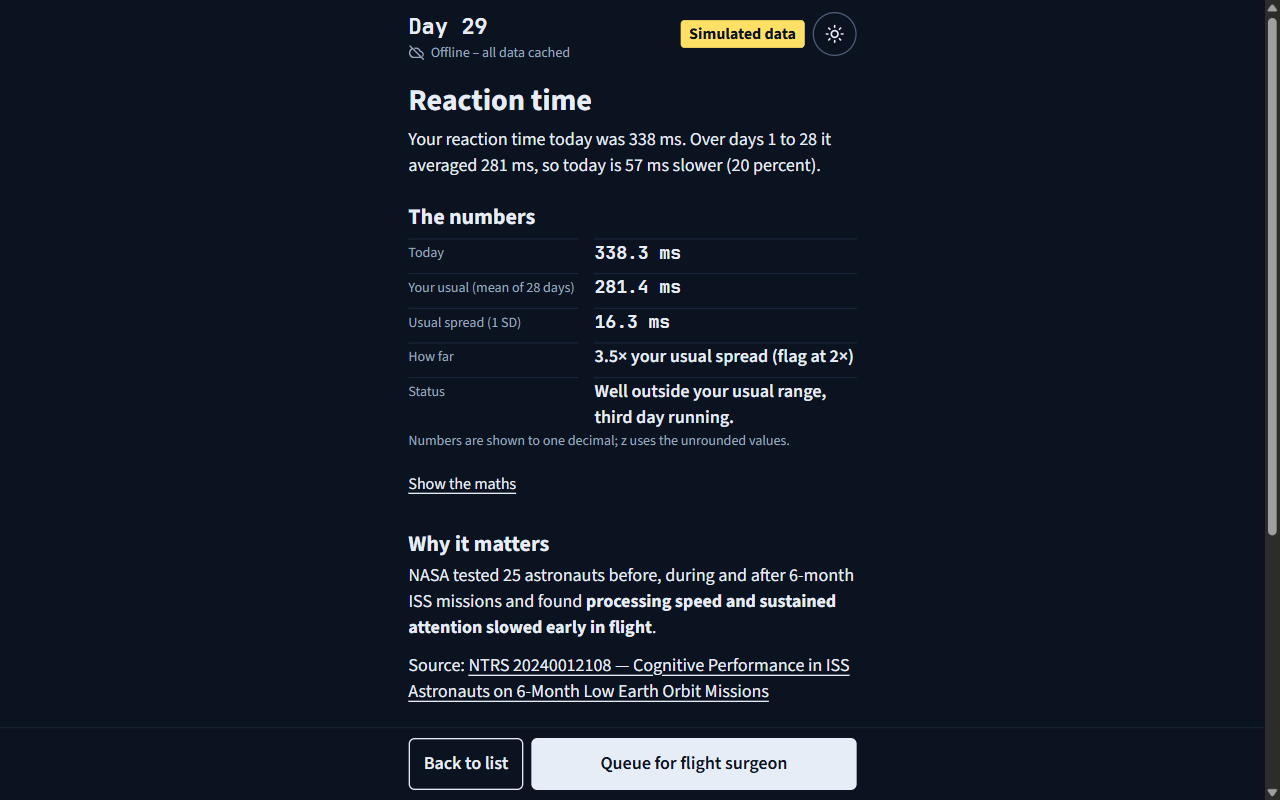
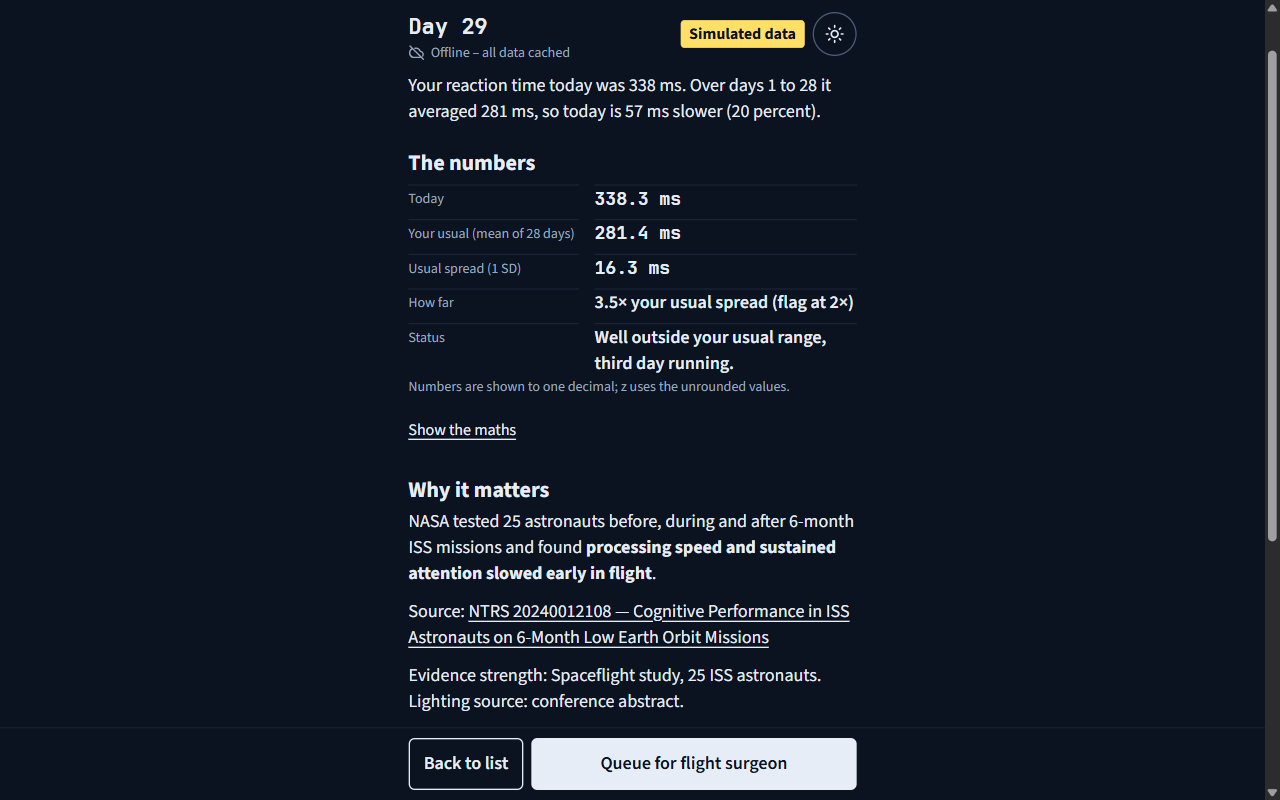
A2: evidence strength line on every evidence card and on the solar alert

Changed region(s): [[0.3125, 0.0938, 0.6562, 0.5625], [0.3125, 0.5938, 0.6562, 0.9062], [0.9688, 0.0312, 1.0, 0.0625]]

diff --git a/web/index.html b/web/index.html
@@ -464,6 +464,7 @@ fieldset { border: 0; padding: 0; margin: 28px 0 0; min-width: 0; }
   <h2>Why it matters</h2>
   <p id="ev-words"></p>
   <p id="ev-study" class="cite"></p>
+  <p id="ev-strength" class="cite"></p>
   <div class="step-card">
     <h2>Guidance</h2>
     <p id="ev-step"></p>
@@ -514,6 +515,7 @@ fieldset { border: 0; padding: 0; margin: 28px 0 0; min-width: 0; }
     <p id="b1-step"></p>
     <div id="b1-sources"></div>
     <p id="b1-source" class="meta cite"></p>
+    <p id="b1-strength" class="meta cite"></p>
   </div>
 </section>
 
@@ -523,9 +525,9 @@ fieldset { border: 0; padding: 0; margin: 28px 0 0; min-width: 0; }
 <script src="trend.js?v=076b8d7565"></script>
 <script src="projection.js?v=1eb08e8dd9"></script>
 <script src="maths.js?v=a15139ff07"></script>
-<script src="spe.js?v=cdf73caa73"></script>
+<script src="spe.js?v=a7f289eecc"></script>
 <script src="reaction.js?v=0c373ca889"></script>
 <script src="store.js?v=986788a7d2"></script>
-<script src="app.js?v=636926be8c"></script>
+<script src="app.js?v=41874e5985"></script>
 </body>
 </html>

diff --git a/web/app.js b/web/app.js
@@ -460,6 +460,7 @@ function renderAlert(c) {
   put($("b1-step"), c.step);
   $("b1-sources").replaceChildren(...[...c.sources, ...c.events].map((line) => make("p", line, "meta cite")));
   put($("b1-source"), c.source);
+  put($("b1-strength"), c.strength);
 }
 
 function showAlert(c, back) {
@@ -620,6 +621,8 @@ function renderEvidence(r) {
   else put($("ev-words"), "No matching study cached.");
   $("ev-study").hidden = !study;
   if (study) putSources($("ev-study"), [{ label: `${PREFIX[e.source_type]}${e.source_id} — ${e.title}`, url: e.url }]);
+  $("ev-strength").hidden = !e.strength;
+  if (e.strength) put($("ev-strength"), `Evidence strength: ${e.strength}`);
 
   const step = e.countermeasure && e.countermeasure_source;
   put($("ev-step"), step ? e.countermeasure : "No countermeasure step cached for this rule yet.");

diff --git a/web/spe.js b/web/spe.js
@@ -17,6 +17,7 @@
       `Source for the alert: ${e.alert_source}`,
       `Source for the S1 level: ${e.threshold_source}`,
     ],
+    strength: `Evidence strength: ${e.strength}`,
   });
 
   // null unless the rule fired on the latest cached reading.
@@ -56,7 +57,7 @@
   }
 
   // Every line of a card, in screen order (for the wording test).
-  const lines = (c) => [c.chip, "Shelter now", c.reading, c.level, c.when, c.step, ...c.sources, ...c.events, c.source];
+  const lines = (c) => [c.chip, "Shelter now", c.reading, c.level, c.when, c.step, ...c.sources, ...c.events, c.source, c.strength];
 
   const api = { live, replay, lines };
   if (typeof module === "object" && module.exports) module.exports = api;

diff --git a/tests/test_evidence.py b/tests/test_evidence.py
@@ -1,4 +1,6 @@
 import json
+import re
+from pathlib import Path
 
 import pytest
 
@@ -25,7 +27,8 @@ def test_url_without_source_id_is_rejected(tmp_path):
 
 def test_ntrs_entry_renders_with_ntrs_prefix(tmp_path):
     # Placeholder id, title and URL for the test only; not a real citation.
-    entry = {"source_type": "ntrs", "source_id": "TEST-ID", "title": "Test title", "url": "https://ntrs.nasa.gov/test"}
+    entry = {"source_type": "ntrs", "source_id": "TEST-ID", "title": "Test title", "url": "https://ntrs.nasa.gov/test",
+             "strength": "Test strength."}
     evidence = load_evidence_map(write(tmp_path, {"hrv_below_personal_baseline": entry}))
     assert card_for(RESULT, evidence)["study"] == "NTRS TEST-ID, Test title, https://ntrs.nasa.gov/test"
 
@@ -54,3 +57,40 @@ def test_every_rule_has_a_countermeasure_step():
         assert entry.get("countermeasure", "").strip(), f"{rule}: no countermeasure"
         assert entry.get("countermeasure_source", "").strip(), f"{rule}: no countermeasure_source"
         assert not blocks_diagnostic(entry["countermeasure"]), rule
+
+
+STRENGTH = {
+    "hrv_below_personal_baseline": "Spaceflight study, 4 crew, 16-day flight. Step source: conference abstract.",
+    "heart_rate_above_personal_baseline": "Spaceflight study, 4 crew, 16-day flight. Step source: NASA standard (reporting only).",
+    "sleep_below_personal_baseline": "Spaceflight study, 19 ISS crew.",
+    "reaction_above_personal_baseline": "Spaceflight study, 25 ISS astronauts. Lighting source: conference abstract.",
+    "mood_below_personal_baseline": "Ground isolation study (Mars-500), 6 crew, not spaceflight.",
+    "two_signals_in_48h": "Ground isolation study (Mars-500), 6 crew, not spaceflight.",
+    "spo2_below_personal_baseline": "Evidence report: names the risk, has no SpO2 readings.",
+    "core_temp_above_personal_baseline": "Study of 2 crew before and after a 115-day flight, not measured in flight.",
+    "solar_particle_event": "NASA technical brief and standard, not a study.",
+}
+
+
+def test_every_rule_has_a_strength_line(tmp_path):
+    """PLAN A2: the line comes from the Status column of docs/EVIDENCE.md, and the loader refuses a map without it."""
+    evidence = load_evidence_map()
+    assert {rule: entry.get("strength") for rule, entry in evidence.items()} == STRENGTH
+    assert evidence["spo2_below_personal_baseline"]["source_id"] == "20150021491", "kept, and its line says it has no SpO2 readings"
+    for line in STRENGTH.values():
+        assert not blocks_diagnostic(f"Evidence strength: {line}"), line
+    for broken in ({}, {"strength": "  "}):
+        with pytest.raises(ValueError, match="no strength line"):
+            load_evidence_map(write(tmp_path, {"hrv_below_personal_baseline": broken}))
+
+
+def test_every_card_renders_the_strength_line():
+    """Each rule's card carries its line; on the page it sits directly under the study source, whatever the rule."""
+    evidence = load_evidence_map()
+    for rule, line in STRENGTH.items():
+        assert card_for({**RESULT, "rule": rule}, evidence)["strength"] == line, rule
+    html = Path("web/index.html").read_text(encoding="utf-8")
+    assert re.search(r'<p id="ev-study" class="cite"></p>\s*<p id="ev-strength" class="cite"></p>', html)
+    app = Path("web/app.js").read_text(encoding="utf-8")
+    render = app[app.index("function renderEvidence(r)"):]
+    assert 'put($("ev-strength"), `Evidence strength: ${e.strength}`);' in render[:render.index("\n}")]

diff --git a/tests/test_spe.py b/tests/test_spe.py
@@ -2,6 +2,7 @@
 and every line on the card passes the wording check."""
 
 import json
+import re
 import shutil
 import subprocess
 from pathlib import Path
@@ -77,3 +78,16 @@ def test_every_alert_line_passes_the_wording_check():
     for line in [out["before"], *out["live"][0], *start, *maximum]:
         assert not blocks_diagnostic(line), line
         assert "all-clear" not in line.lower(), line
+
+
+@pytest.mark.skipif(NODE is None, reason="node is not installed")
+def test_solar_alert_shows_the_strength_line_under_its_sources():
+    """PLAN A2: on the live alert and on both replay cards, last of all, after every source line."""
+    line = "Evidence strength: NASA technical brief and standard, not a study."
+    out = run([reading(12.0)])
+    for card in (out["live"][0], *out["replay"]):
+        assert card[-1] == line
+        assert card[-2].startswith("Source: NOAA GOES")
+    html = Path("web/index.html").read_text(encoding="utf-8")
+    assert re.search(r'<p id="b1-source" class="meta cite"></p>\s*<p id="b1-strength" class="meta cite"></p>', html)
+    assert 'put($("b1-strength"), c.strength);' in Path("web/app.js").read_text(encoding="utf-8")

diff --git a/src/baseline/evidence.py b/src/baseline/evidence.py
@@ -14,6 +14,8 @@ def load_evidence_map(path: str = "docs/evidence_map.json") -> dict:
             raise ValueError(f"{rule}: has a url but no source_id")
         if entry.get("source_id") is not None and entry.get("source_type") not in PREFIX:
             raise ValueError(f"{rule}: source_type must be one of {sorted(PREFIX)}")
+        if not entry.get("strength", "").strip():
+            raise ValueError(f"{rule}: no strength line (see docs/EVIDENCE.md, Status column)")
     return evidence
 
 
@@ -36,5 +38,6 @@ def card_for(result: dict, evidence_map: dict) -> dict:
         "countermeasure": e.get("countermeasure"),
         "countermeasure_source": e.get("countermeasure_source"),
         "study": study,
+        "strength": e.get("strength"),
         "status": e.get("status"),
     }

diff --git a/README.md b/README.md
@@ -97,7 +97,7 @@ For a repeatable demo, use the **"Use recorded day-29 self-check"** button in st
 | 1 | **Self-check** | A guide card with one line from the simulated crew schedule (daily check due, done or next; on screen only), then a 5-round reaction test, sleep hours, sleep quality, mood, and a near-vision line. About 2 minutes. |
 | 2 | **Console** | "Health status": one chart per signal, seven in all (heart rate, heart rate variability (HRV), blood oxygen, core temperature, sleep, mood and reaction time); a 7 days · 30 days switch (30 by default, same usual range in both). Grey band = your usual range. Orange dot = flagged. Orange ring = being watched. |
 | 3 | **What changed** | Each flag in two lines: today's value against your usual, then a plain status such as "Well outside your usual range, third day running." A signal outside its usual range three days running also gets a trend card under its flag: the three values, the change per day from a least-squares line through them, and whether a straight line from today gets back inside the usual range within 30 days, labelled "Projection from your own last 3 days, not a forecast." |
-| 4 | **Evidence card** | The change in plain words, the numbers, why it matters (study finding in bold, source linked), and "Guidance": one step. "Show the maths" opens a histogram of the days the rule used (28 on day 29), today's line, the usual ± 2 SD lines and the sum in words, e.g. "Today is (338.3 − 281.4) ÷ 16.3 = 3.5 spreads above your usual." |
+| 4 | **Evidence card** | The change in plain words, the numbers, why it matters (study finding in bold, source linked, an "Evidence strength" line), and "Guidance": one step. "Show the maths" opens a histogram of the days the rule used (28 on day 29), today's line, the usual ± 2 SD lines and the sum in words, e.g. "Today is (338.3 − 281.4) ÷ 16.3 = 3.5 spreads above your usual." |
 | 5 | **Queue for flight surgeon** | The summary, and "Earliest reply in 44 minutes (22 minutes each way at Mars distance)." Display only. Nothing is sent. |
 | 6 | **Next day** | Day 30: each of yesterday's flags compared with today. "Start the demo again" returns to step 1. |
 
@@ -142,7 +142,7 @@ flowchart TD
 
 | | Source | Status |
 |---|---|---|
-| **Real** | NOAA GOES solar-proton flux, 7 days, cached 30 Sep 2026 | Shown on the console in its own box. A rule raises a solar particle event flag at NOAA's S1 level (≥ 10 pfu at ≥ 10 MeV), with tests. At or above S1 the page opens a full-screen alert, "Shelter now", with the step "Go to the storm shelter." and its sources (NASA OCHMO-TB-020 Rev E; NASA-STD-3001 Vol 2 Rev C [V2 6100]; NOAA SWPC), and says when the reading was cached. The 30 Sep reading is below S1, so no alert opens. |
+| **Real** | NOAA GOES solar-proton flux, 7 days, cached 30 Sep 2026 | Shown on the console in its own box. A rule raises a solar particle event flag at NOAA's S1 level (≥ 10 pfu at ≥ 10 MeV), with tests. At or above S1 the page opens a full-screen alert, "Shelter now", with the step "Go to the storm shelter." and its sources (NASA OCHMO-TB-020 Rev E; NASA-STD-3001 Vol 2 Rev C [V2 6100]; NOAA SWPC) with an "Evidence strength" line, and says when the reading was cached. The 30 Sep reading is below S1, so no alert opens. |
 | **Real** | NOAA's listed values for the solar proton event of 9 Sep 2024 (start 16:40 UTC, maximum 34 pfu at 22:50 UTC, S1), from the SWPC event list and the NCEI proton event list, also reported by the Australian Bureau of Meteorology; cached 30 Oct 2026 in `cache/noaa/spe-2024-09-09.json` | "Replay a real solar storm: 9 September 2024" on the console plays the three points and opens the alert at the S1 crossing, labelled as a replay, not today's data. No curve. |
 | **Real** | NASA MSL RAD Mars surface radiation, 30 days to 20 Oct 2026, cached 22 Oct 2026 | Shown in the same box as the latest day in µGy per day. A rule with tests compares that day with the earlier days, and the box says whether it is within or above their usual range (mean ± 2 SD). No flag row or step yet. |
 | **Real** | NASA OSDR search results, 10 keywords, cached 30 Sep and 10 Oct 2026 | Source of the OSD-140 study on two cards. |
@@ -178,7 +178,7 @@ NASA-STD-3001 [V1 3004] requires vital signs to be monitored and trended and pri
 <details>
 <summary>How the evidence map is structured</summary>
 
-Each entry in `docs/evidence_map.json` is keyed by rule id, for example `reaction_above_personal_baseline`. It has `source_type` (`osdr` or `ntrs`), `source_id`, `title` and `url`, and optionally `plain_words`, `key_finding`, `countermeasure` and `countermeasure_source`. `key_finding` is the phrase the card shows in bold; it must appear word for word in `plain_words`, and a test checks this. A study without an id and URL is not shown, and neither is a step without a source line. After editing the map, copy it to `web/data/evidence_map.json`; a test fails if the two differ.
+Each entry in `docs/evidence_map.json` is keyed by rule id, for example `reaction_above_personal_baseline`. It has `source_type` (`osdr` or `ntrs`), `source_id`, `title` and `url`, and optionally `plain_words`, `key_finding`, `countermeasure` and `countermeasure_source`. Every entry, including `solar_particle_event`, must also have `strength`, a short line on how strong the source is, taken from the Status column of docs/EVIDENCE.md; the loader refuses a map without it. `key_finding` is the phrase the card shows in bold; it must appear word for word in `plain_words`, and a test checks this. A study without an id and URL is not shown, and neither is a step without a source line. After editing the map, copy it to `web/data/evidence_map.json`; a test fails if the two differ.
 
 The seven OSDR searches cached on 30 Sep returned 57 hits, 50 distinct studies. Twelve list Homo sapiens; five of those are from human crew (OSD-316, OSD-575, OSD-656, OSD-903, OSD-943). The rest are mouse, rat, fly or cell studies.
 
@@ -215,7 +215,7 @@ web/                    the page: index.html, app.js, rules.js, trend.js, projec
 data/fixtures/          simulated 30-day records (clean, anomaly)
 cache/                  NTRS, OSDR and NOAA responses with source URL and fetch time
 docs/                   evidence map, evidence notes, design notes
-tests/                  90 tests
+tests/                  93 tests
 ```
 
 ---

diff --git a/docs/EVIDENCE.md b/docs/EVIDENCE.md
@@ -1,6 +1,6 @@
 # Evidence
 
-One row per rule. The card text and sources are in `docs/evidence_map.json` (copied to `web/data/evidence_map.json`); this table says what each source is and how strong it is. Reviewed 24 Oct 2026; solar particle event row added 30 Oct 2026.
+One row per rule. The card text and sources are in `docs/evidence_map.json` (copied to `web/data/evidence_map.json`); this table says what each source is and how strong it is. A short line taken from the Status column is the `strength` field of each entry in the map; every evidence card shows it under the study source, and the solar alert under its sources, as "Evidence strength: <text>" (1 Nov 2026). Reviewed 24 Oct 2026; solar particle event row added 30 Oct 2026.
 
 Every signal rule compares today with the mean and spread (SD) of the same person's previous days (up to 30, at least 14; today never counts). A day 2 SD out in the direction that matters is a watch item; 3 SD, or 2 SD two days running, is a flag.
 
